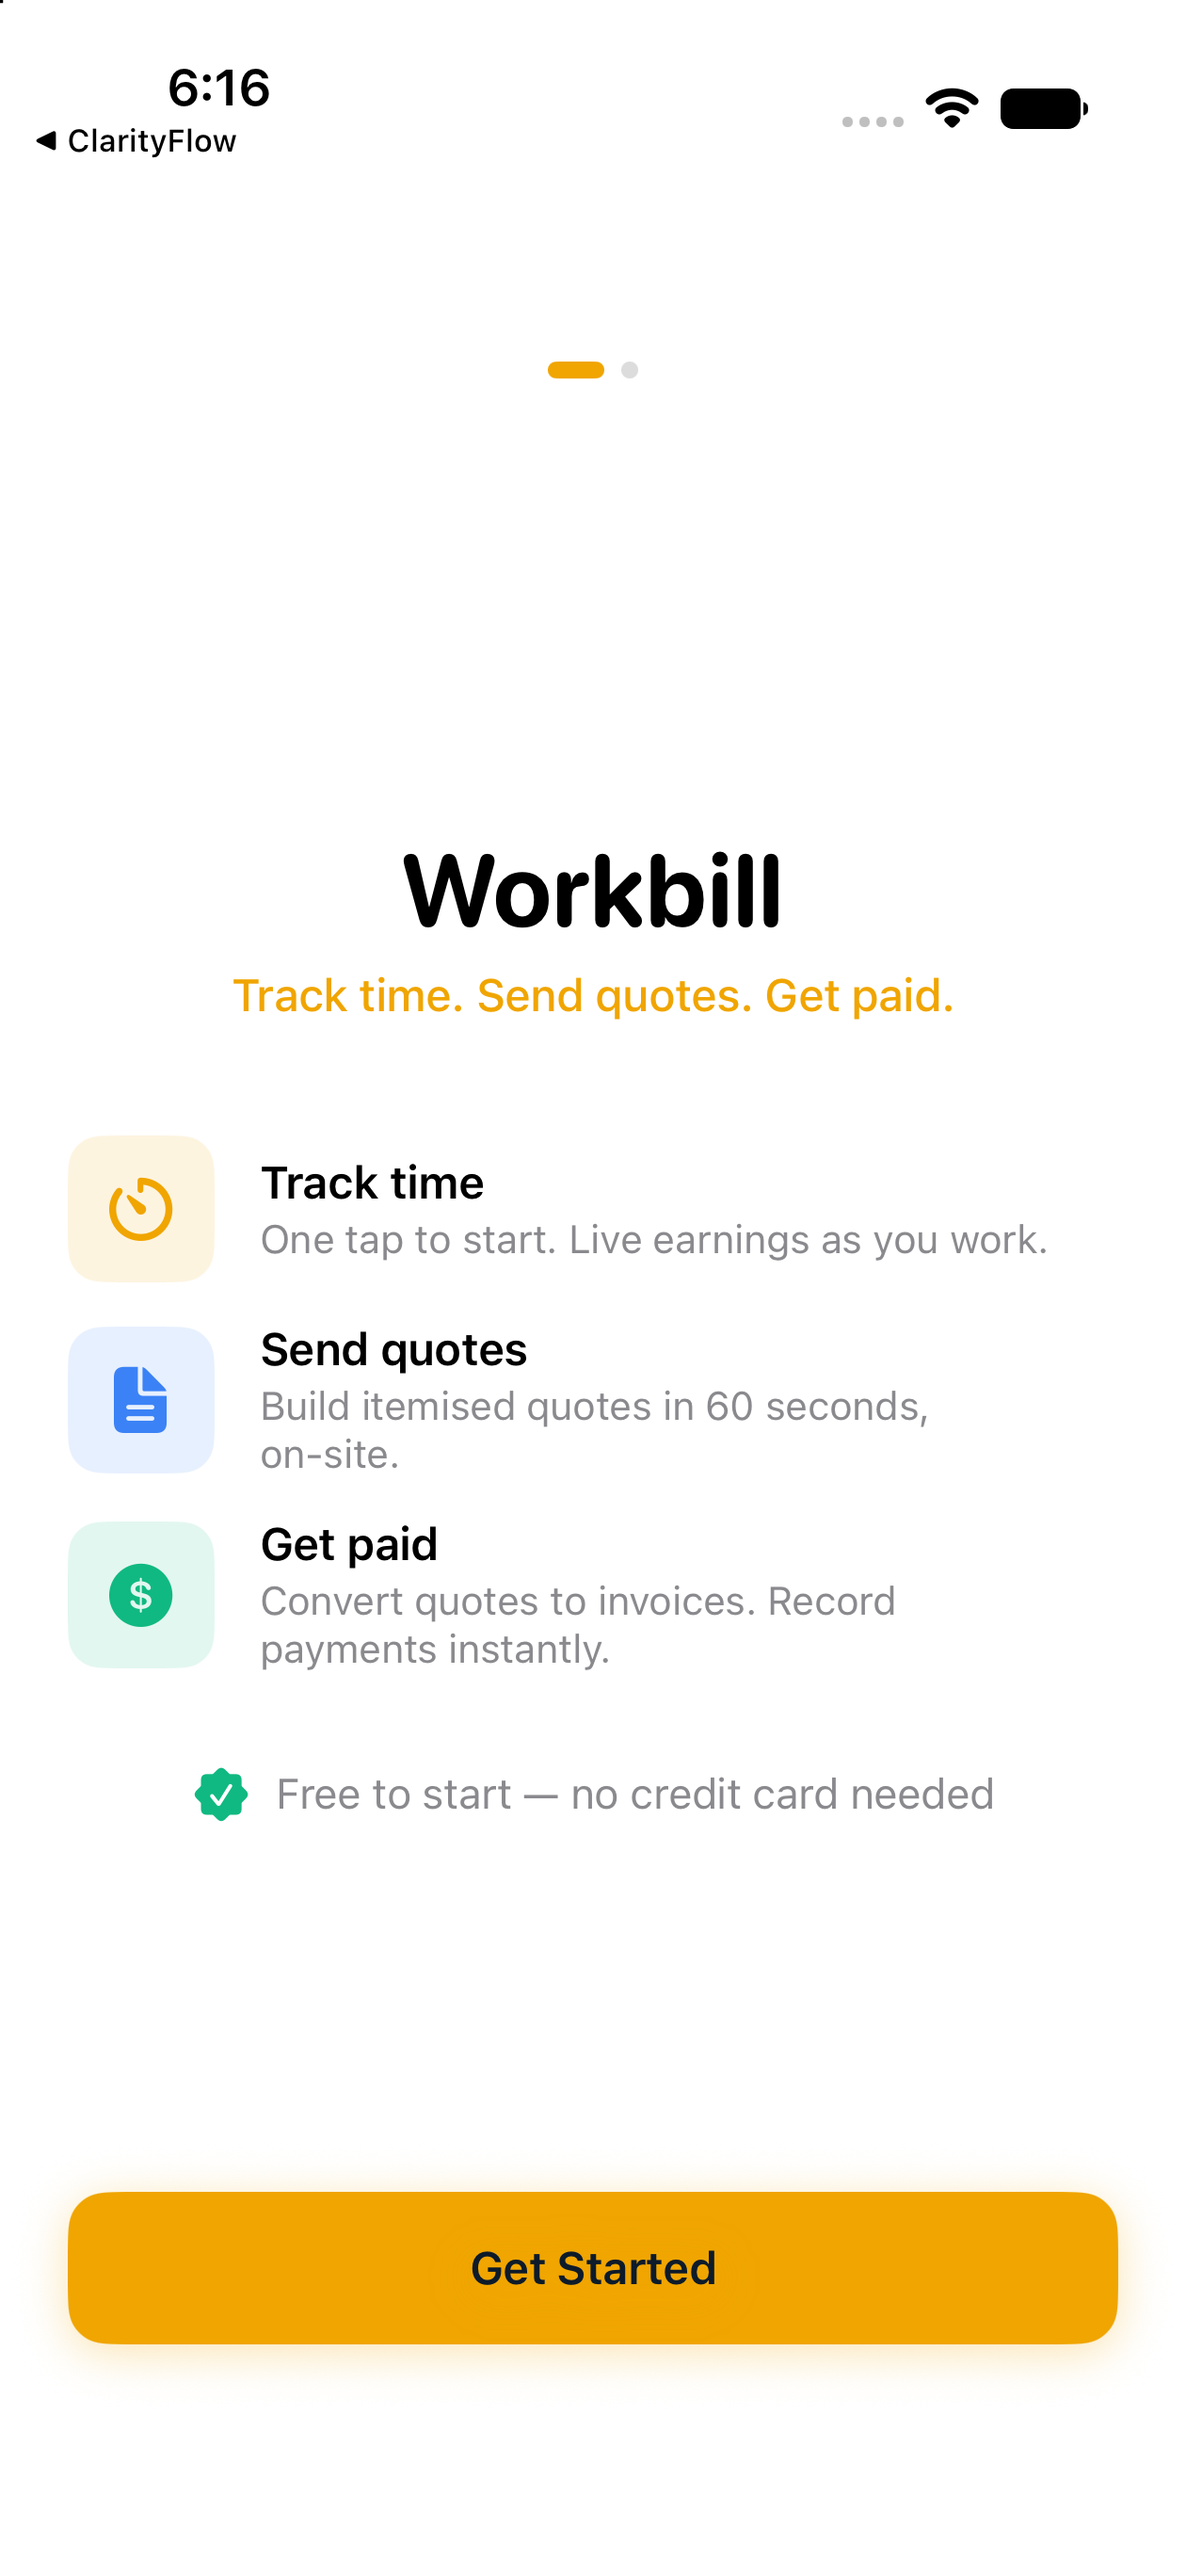
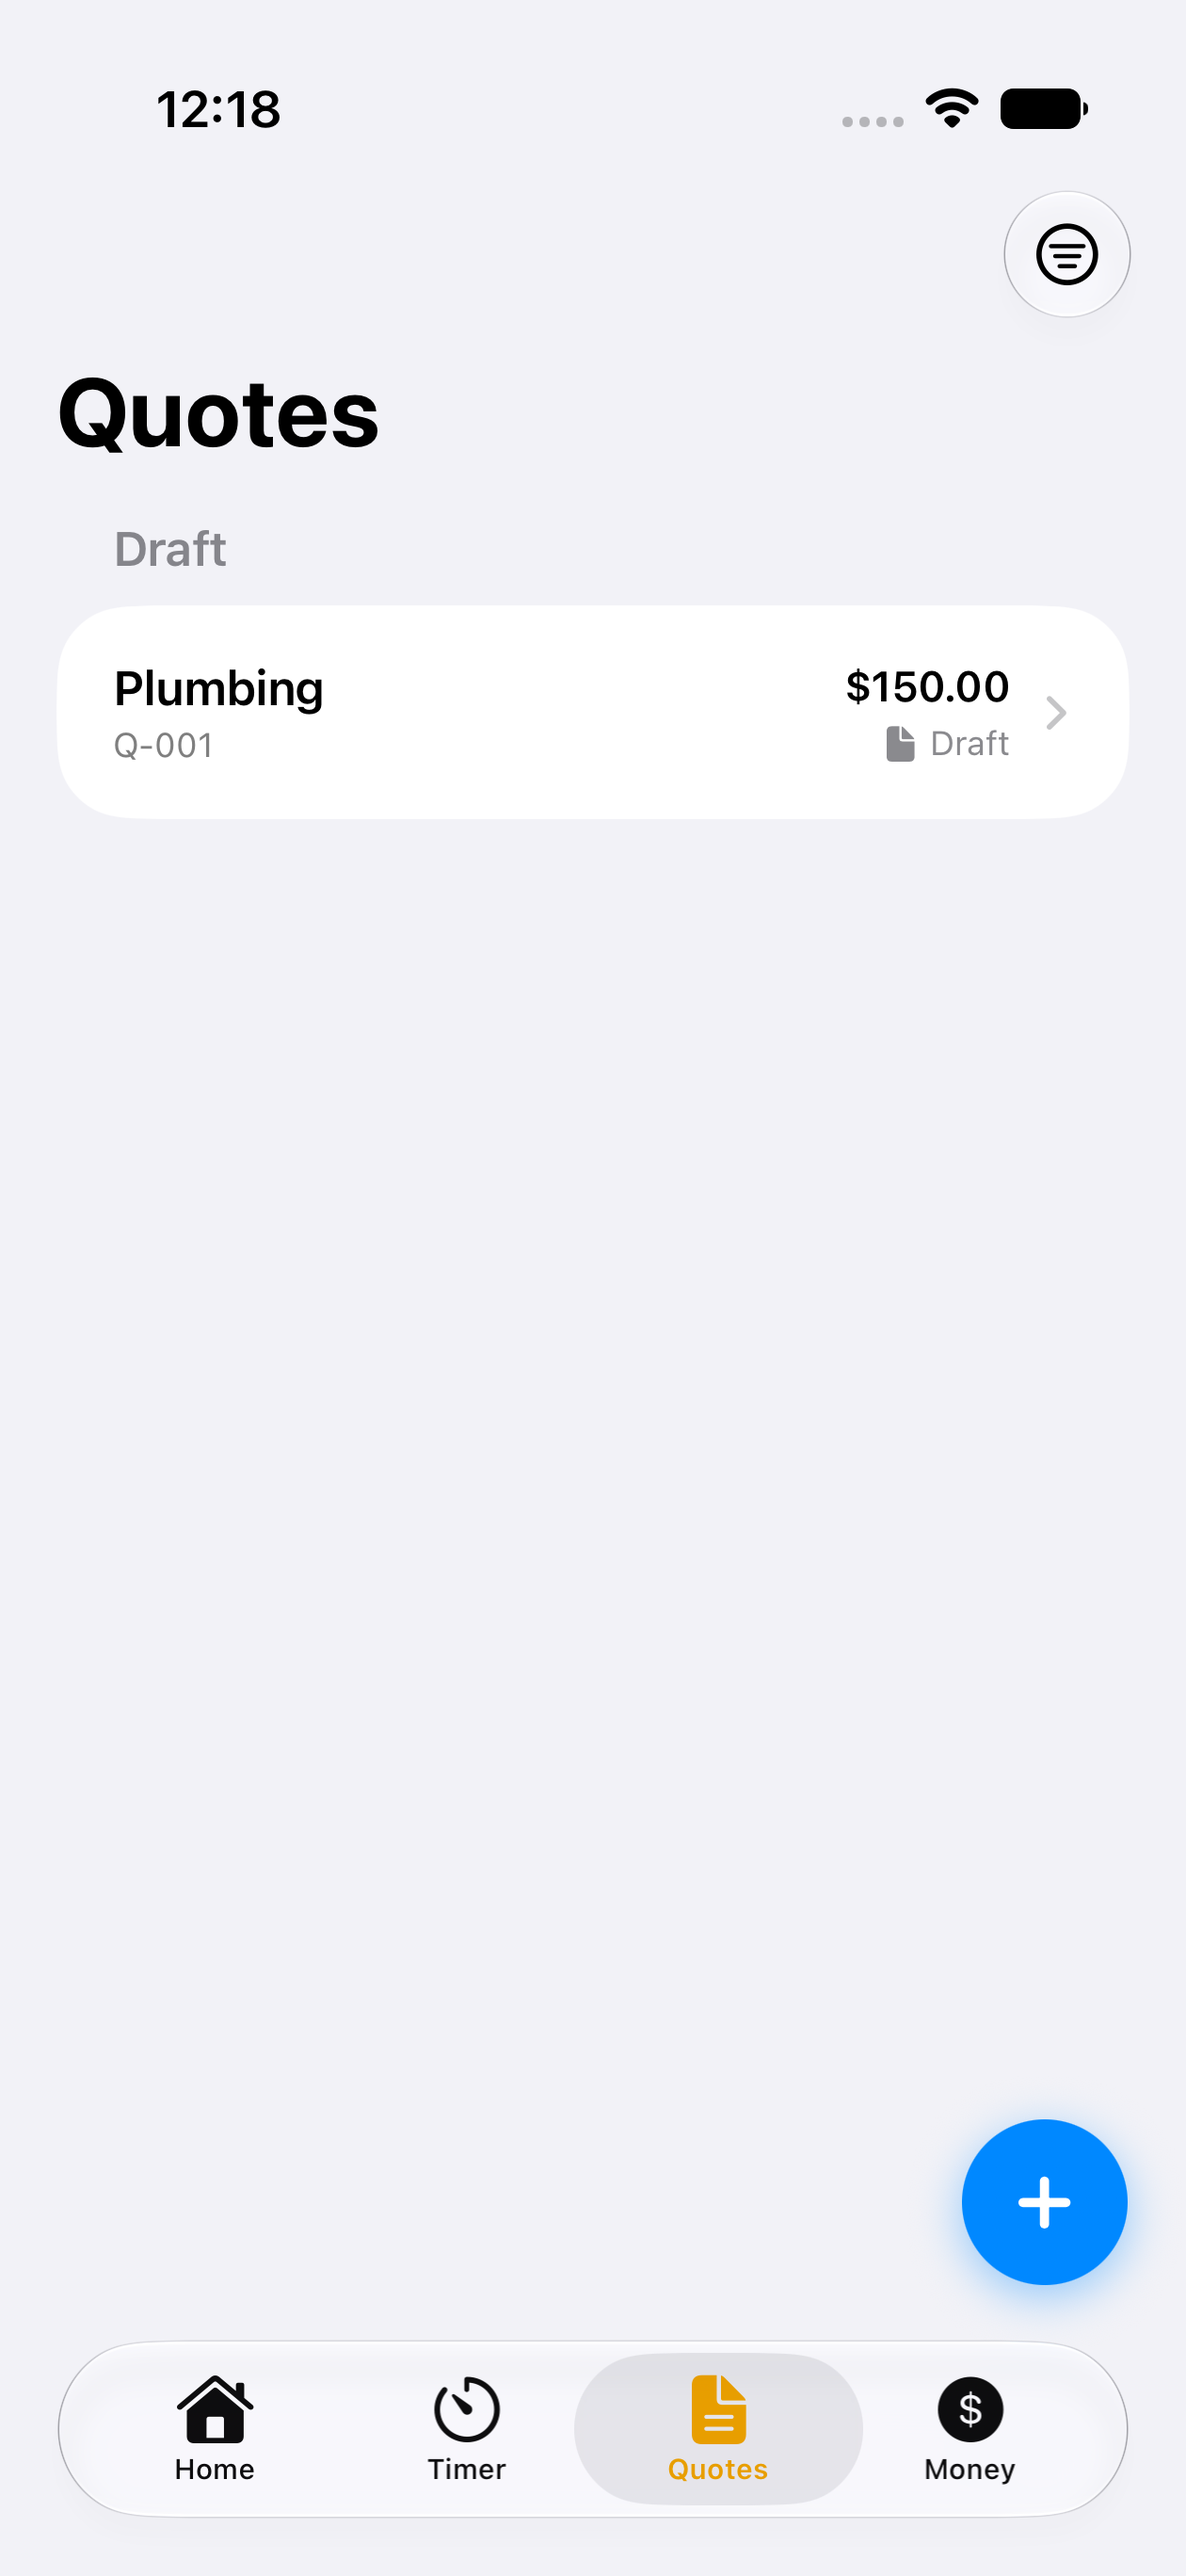
Refresh Workbill screenshots for 1.0.6

diff --git a/workbill/index.html b/workbill/index.html
@@ -36,7 +36,7 @@ Your next invoice.</h1>
 <a class="button primary" href="https://apps.apple.com/app/id6755194362">View on App Store ↗</a>
 <a class="button secondary" href="#screens">Explore the app</a>
 </div>
-<p class="release">Screens captured from Workbill 1.0.5 in the simulator, with no client records.</p>
+<p class="release">Screens from the tested Workbill 1.0.6 release candidate using demonstration records. The current App Store version may differ.</p>
 </div>
 <div class="product" id="screens" data-gallery>
 <a class="gallery-link" href="/workbill/assets/screenshots-current/01.png" target="_blank" rel="noopener noreferrer" aria-label="Open full-size Workbill screenshot">
@@ -45,7 +45,8 @@ Your next invoice.</h1>
 <p class="caption" aria-live="polite">Home — See earnings and your next action together.</p>
 <div class="gallery-controls" aria-label="Choose an app screen">
 <button type="button" data-image="/workbill/assets/screenshots-current/01.png" data-alt="Workbill: Home" data-caption="Home — See earnings and your next action together." aria-pressed="true">Home</button>
-<button type="button" data-image="/workbill/assets/screenshots-current/02.png" data-alt="Workbill: Get started" data-caption="Get started — Time, quotes and payments in one app." aria-pressed="false">Get started</button>
+<button type="button" data-image="/workbill/assets/screenshots-current/02.png" data-alt="Workbill: Quotes" data-caption="Quotes — See your draft work at a glance." aria-pressed="false">Quotes</button>
+<button type="button" data-image="/workbill/assets/screenshots-current/03.png" data-alt="Workbill: Money" data-caption="Money — Track outstanding invoices." aria-pressed="false">Money</button>
 </div>
 </div>
 </section>
